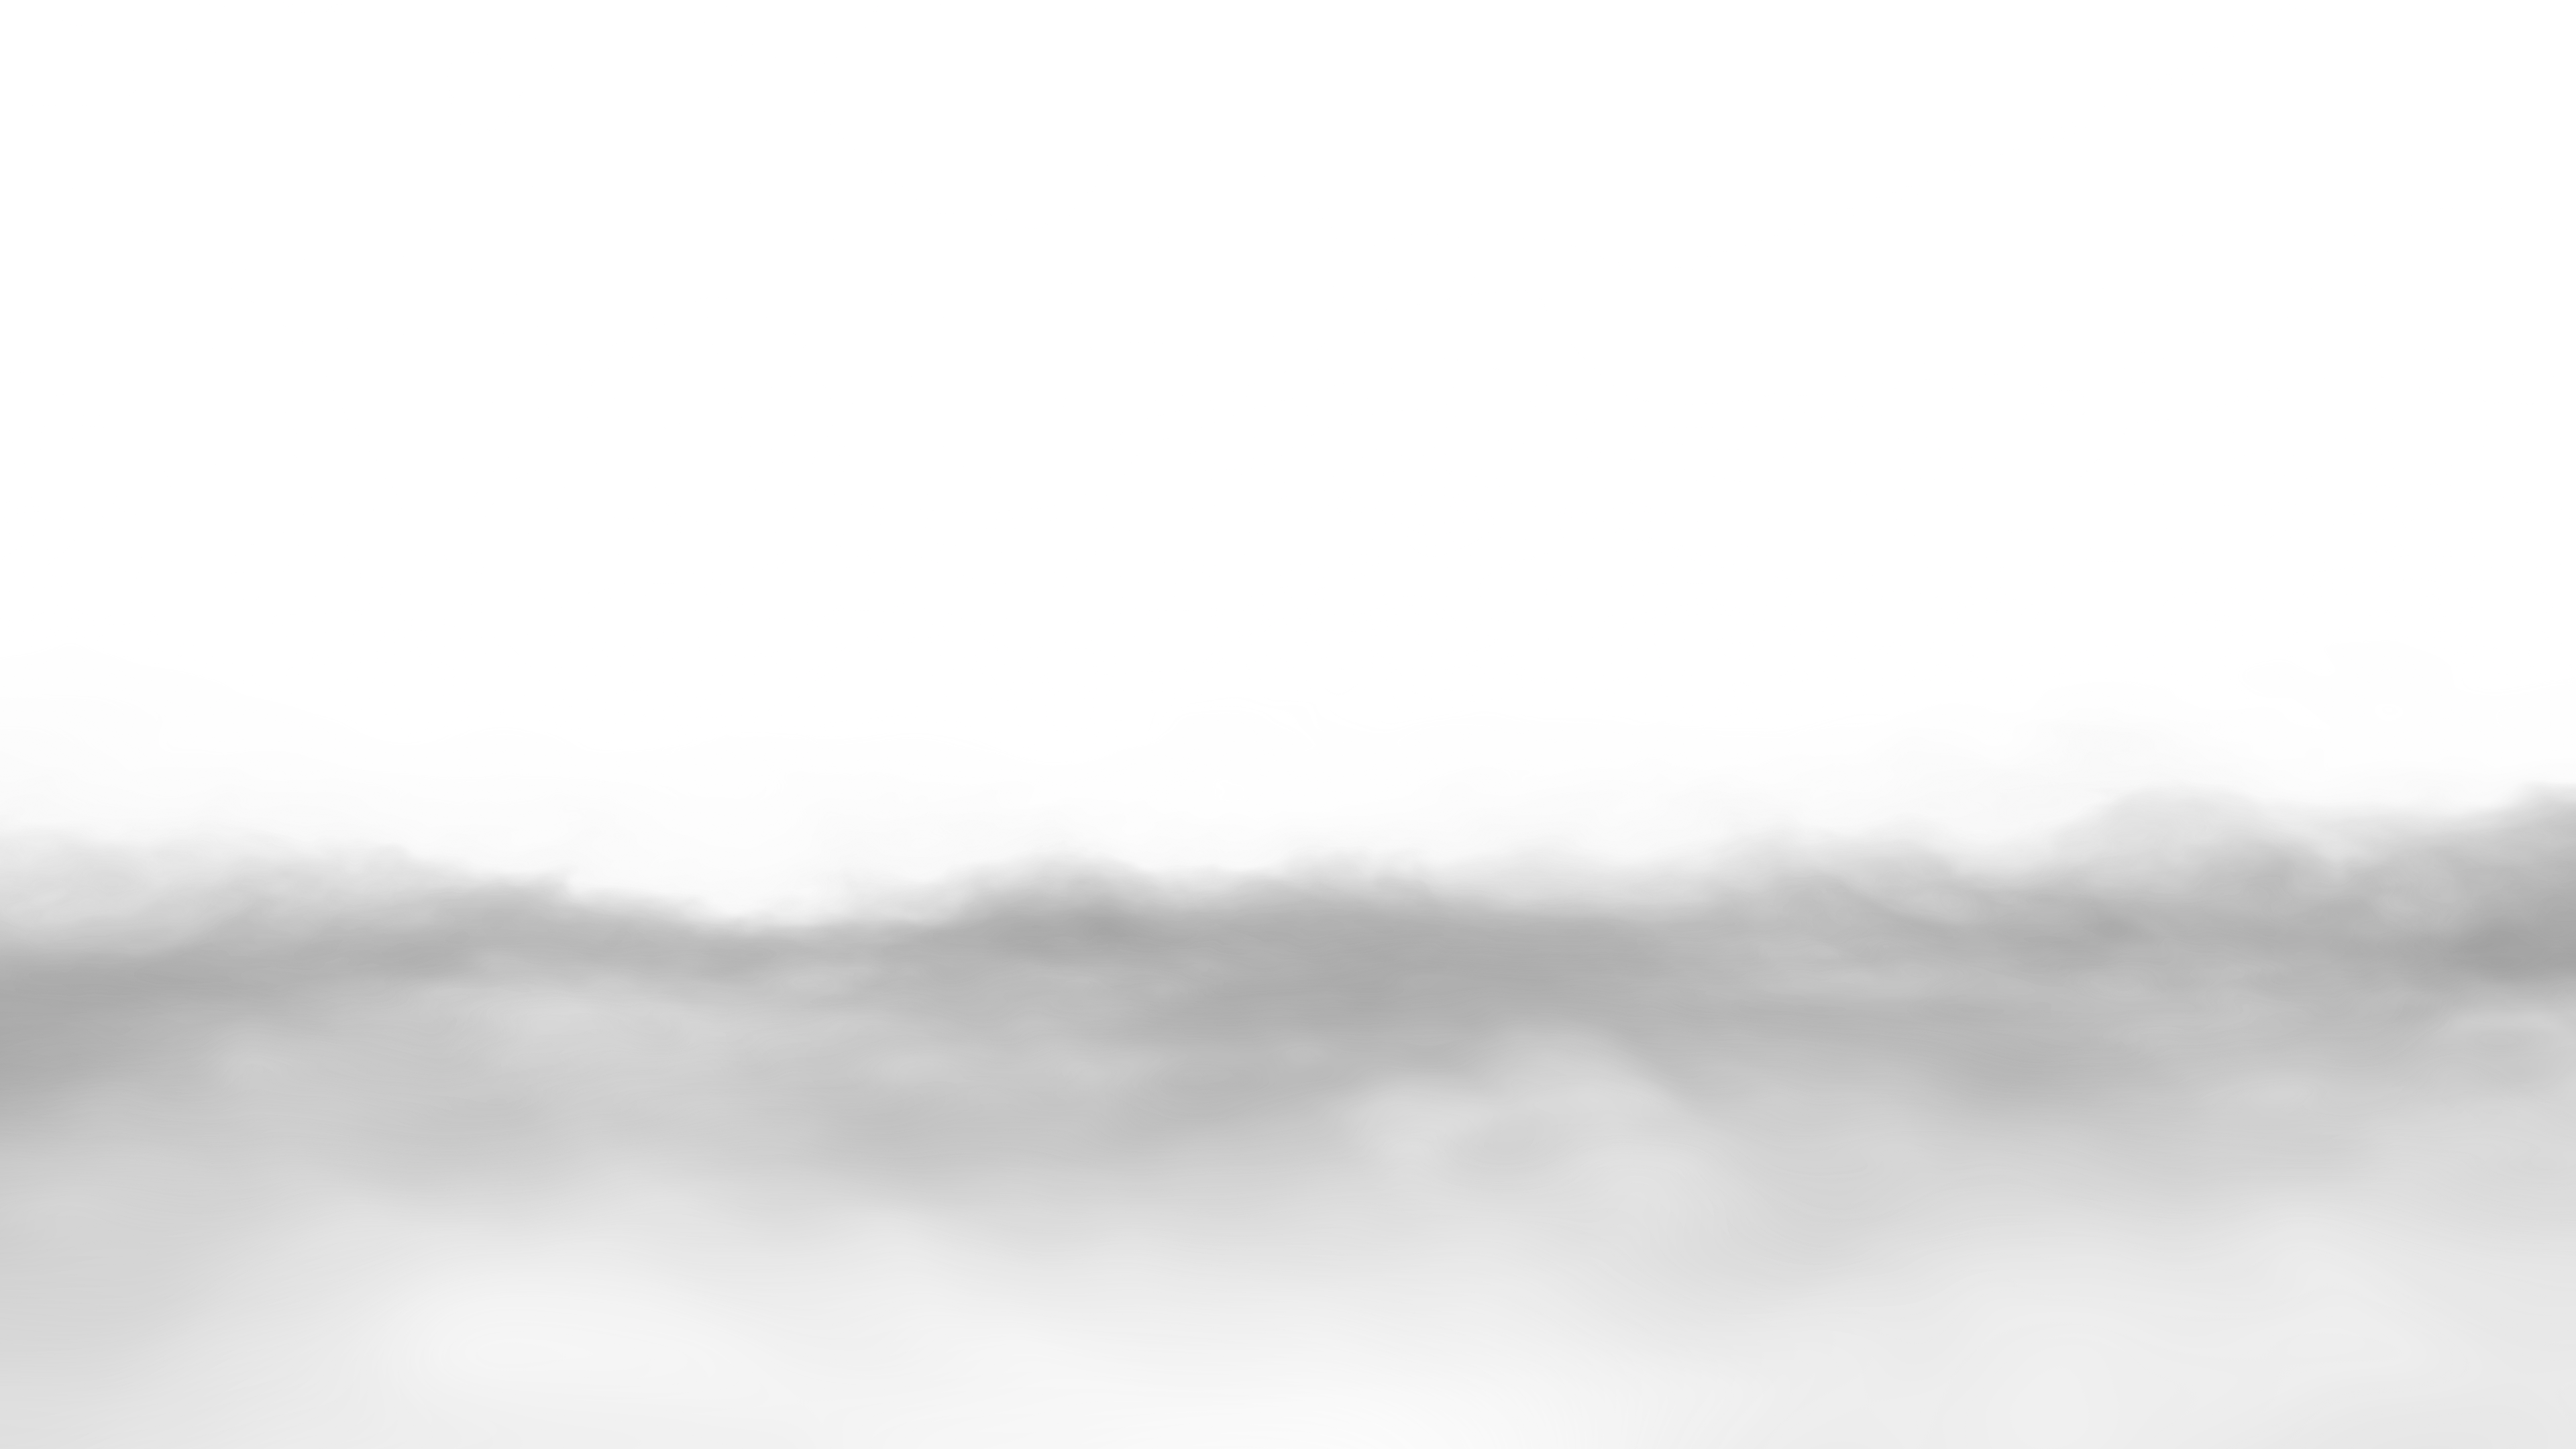
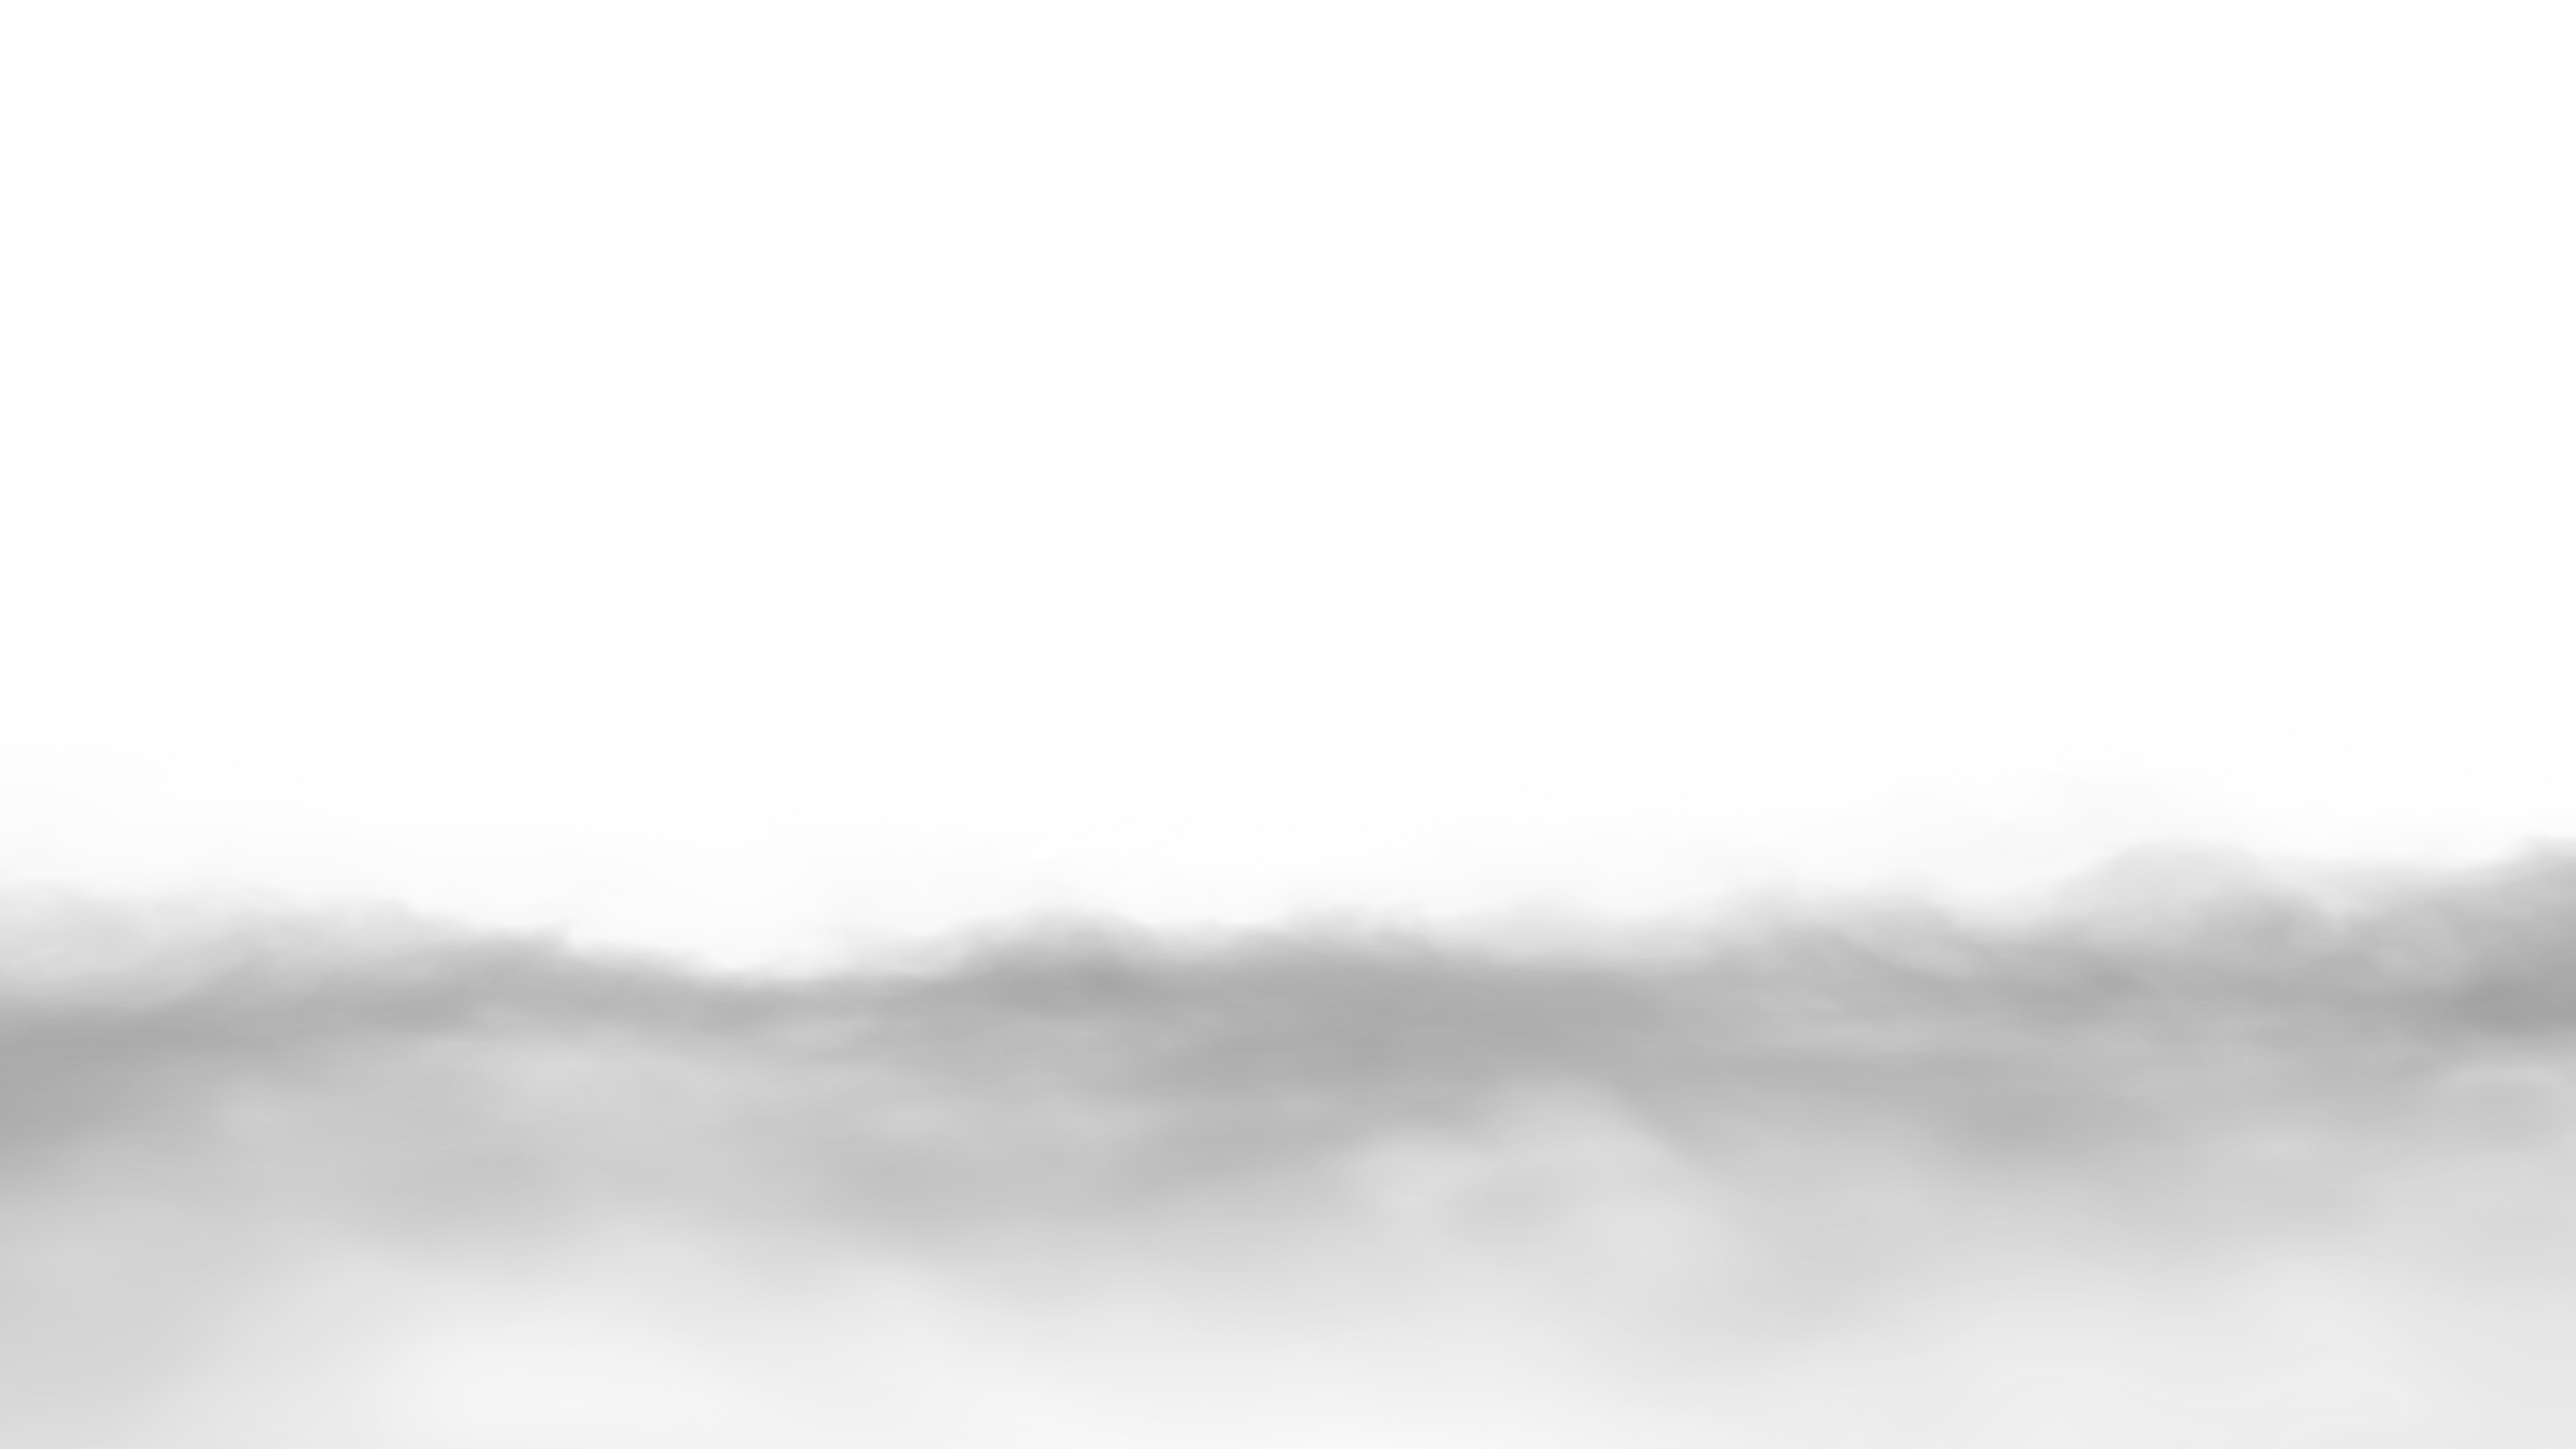
gird, background texture save

diff --git a/src/app/intro/components/IntroStart.module.css b/src/app/intro/components/IntroStart.module.css
@@ -21,7 +21,7 @@
 
   background-repeat: repeat, repeat, no-repeat;
 
-  background-position: top left, top left, 80% center;
+  background-position: top left, top left, bottom center;
 
   background-blend-mode: multiply; /* multiply 또는 lighten 도 테스트 가능 */
   opacity: 0.95;
@@ -53,6 +53,9 @@
   opacity: 0.3;
   z-index: 2;
   color: black;
+
+  text-shadow: 6px 10px 30px rgba(0, 0, 0, 0.05),
+    20px 25px 60px rgba(0, 0, 0, 0.08);
 }
 
 .focus_svg {
